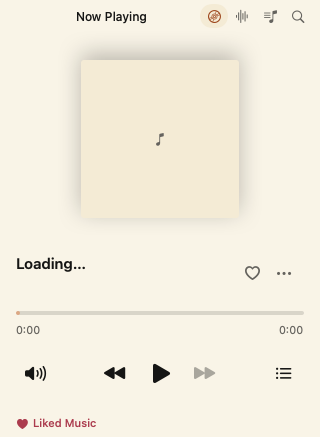
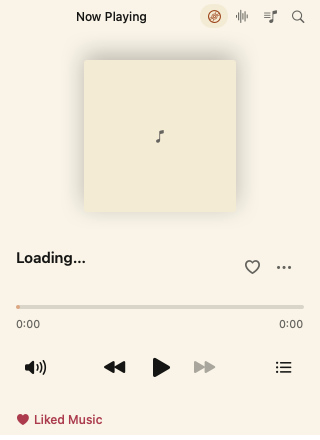
The source line names the output device; Bluetooth asked only from its item; the strip's buttons grouped
Now Playing's bottom line is in the label role on 32 now, and at its
other end names the device the sound goes to when it is not the Mac's
own speakers ("AirPods Pro", muted), so headphones left on are no
mystery. The line shows while either is there.

macOS asked about Bluetooth whenever the "…" menu opened, once the
setting was on: the paired devices were read as the menu appeared. Now
the question comes only from "Connect a Bluetooth Device…", and the menu
reads the paired devices by itself only once CoreBluetooth says the
answer was yes.

In a wide strip the three transport buttons stand together with no gap,
and Like a step apart and muted, as it is not one of them; its tooltip
names Command-L.

diff --git a/Sources/BSide/Player/AudioOutputs.swift b/Sources/BSide/Player/AudioOutputs.swift
@@ -1,5 +1,6 @@
 import Combine
 import CoreAudio
+import CoreBluetooth
 import IOBluetooth
 
 /// Where the Mac's sound can go: the speakers, headphones, a display, an
@@ -10,6 +11,8 @@ struct AudioOutput: Identifiable, Equatable {
     let symbol: String
     /// The system's lasting name for it; a Bluetooth device's has its address.
     let uid: String
+    /// The Mac's own speakers or headphone jack.
+    var isBuiltIn = false
 }
 
 /// A paired Bluetooth speaker or pair of headphones that is not connected.
@@ -34,6 +37,17 @@ final class AudioOutputs: ObservableObject {
     /// is open, never at launch.
     @Published private(set) var paired: [BluetoothOutput] = []
     @Published private(set) var showsBluetooth = Settings.bool(Keys.bluetoothOutputs)
+    /// Snapshots: the device Now Playing says the sound goes to.
+    var sampleElsewhere: AudioOutput?
+
+    /// The device the sound goes to when it is not the Mac's own: named on
+    /// Now Playing, so a pair of headphones left on in another room is not
+    /// a mystery.
+    var elsewhere: AudioOutput? {
+        if let sampleElsewhere { return sampleElsewhere }
+        guard let device = devices.first(where: { $0.id == current }), !device.isBuiltIn else { return nil }
+        return device
+    }
 
     /// The Bluetooth device being connected, to get the sound once it is there.
     private var wanted: (address: String, since: Date)?
@@ -59,18 +73,26 @@ final class AudioOutputs: ObservableObject {
         read()
     }
 
-    /// From the menu, once: macOS asks about Bluetooth, and the paired
-    /// devices are listed from then on.
+    /// macOS has been asked about Bluetooth and said yes. Read without
+    /// asking: the question is asked only from "Connect a Bluetooth
+    /// Device…", never by a menu opening (as it was until 2026-10-03).
+    private static var allowed: Bool { CBManager.authorization == .allowedAlways }
+
+    /// From the menu item, once: macOS asks about Bluetooth, and the
+    /// paired devices are listed from then on.
     func showBluetooth() {
         Settings.defaults.set(true, forKey: Keys.bluetoothOutputs)
         showsBluetooth = true
-        refreshPaired()
+        paired = Self.pairedAudio()
     }
 
-    /// For the menu, as it opens.
+    /// For the menu, as it opens: only once allowed, so no question pops.
     func refreshPaired() {
-        paired = showsBluetooth ? Self.pairedAudio() : []
+        paired = showsBluetooth && Self.allowed ? Self.pairedAudio() : []
     }
+
+    /// The paired devices are listed; else the item that asks.
+    var listsPaired: Bool { showsBluetooth && Self.allowed }
 
     /// Connects the device; the sound goes to it when it has connected.
     func connect(_ device: BluetoothOutput) {
@@ -90,7 +112,8 @@ final class AudioOutputs: ObservableObject {
         devices = Self.ids().compactMap { id in
             guard Self.canBeOutput(id), let name = Self.string(of: id, kAudioObjectPropertyName) else { return nil }
             return AudioOutput(id: id, name: name, symbol: Self.symbol(of: id),
-                               uid: Self.string(of: id, kAudioDevicePropertyDeviceUID) ?? "")
+                               uid: Self.string(of: id, kAudioDevicePropertyDeviceUID) ?? "",
+                               isBuiltIn: Self.value(of: id, kAudioDevicePropertyTransportType) == kAudioDeviceTransportTypeBuiltIn)
         }
         current = Self.value(of: Self.system, kAudioHardwarePropertyDefaultOutputDevice) ?? kAudioObjectUnknown
         guard let wanted else { return }

diff --git a/Sources/BSide/Views/Window/NowPlayingStrip.swift b/Sources/BSide/Views/Window/NowPlayingStrip.swift
@@ -46,18 +46,22 @@ struct NowPlayingStrip: View {
             .contextMenu { trackMenu }
             .accessibilityLabel("Now Playing: \(line)" + (player.sourceLabel.map { ", from \($0.name)" } ?? ""))
 
-            // As tall as the artwork, 4 inside the panel, like it.
-            if wide {
-                TransportButton(symbol: "backward.fill", label: "Previous", target: Theme.Size.artworkStrip) { player.previous() }
-                    .disabled(!player.hasTrack)
+            // As tall as the artwork, 4 inside the panel, like it. The
+            // transport buttons stand together; Like, which is not one of
+            // them, a step apart and muted, as on Now Playing.
+            HStack(spacing: 0) {
+                if wide {
+                    TransportButton(symbol: "backward.fill", label: "Previous", target: Theme.Size.artworkStrip) { player.previous() }
+                        .disabled(!player.hasTrack)
+                }
+                TransportButton(symbol: player.state.isPlaying ? "pause.fill" : "play.fill",
+                                label: player.state.isPlaying ? "Pause" : "Play",
+                                glyph: Theme.Size.stripPlayGlyph, target: Theme.Size.artworkStrip) {
+                    player.togglePlayPause()
+                }
+                TransportButton(symbol: "forward.fill", label: "Next", target: Theme.Size.artworkStrip) { player.next() }
+                    .disabled(!player.state.hasNext)
             }
-            TransportButton(symbol: player.state.isPlaying ? "pause.fill" : "play.fill",
-                            label: player.state.isPlaying ? "Pause" : "Play",
-                            glyph: Theme.Size.stripPlayGlyph, target: Theme.Size.artworkStrip) {
-                player.togglePlayPause()
-            }
-            TransportButton(symbol: "forward.fill", label: "Next", target: Theme.Size.artworkStrip) { player.next() }
-                .disabled(!player.state.hasNext)
             if wide, !player.state.isAd {
                 TransportButton(symbol: player.state.isLiked ? "heart.fill" : "heart",
                                 label: player.state.isLiked ? "Remove Like" : "Like", target: Theme.Size.artworkStrip,
@@ -65,6 +69,8 @@ struct NowPlayingStrip: View {
                     player.toggleLike()
                 }
                 .disabled(!player.hasTrack)
+                .padding(.leading, Theme.Space.xs)
+                .help("Like (⌘L)")
             }
         }
         .onGeometryChange(for: CGFloat.self) { $0.size.width } action: { width = $0 }
@@ -106,6 +112,8 @@ struct NowPlayingStrip: View {
 /// track in the strip, and along the bottom of Now Playing.
 struct SourceLine: View {
     let label: SourceLabel
+    /// The caption under the track in the strip; the label on its own line.
+    var font: Font = Theme.Text.caption
     @Environment(\.colorScheme) private var colorScheme
 
     var body: some View {
@@ -113,7 +121,7 @@ struct SourceLine: View {
             Image(systemName: label.symbol)
             Text(label.name)
         }
-        .font(Theme.Text.caption)
+        .font(font)
         .fontWeight(.medium)
         .foregroundStyle(colour)
         .lineLimit(1)

diff --git a/Sources/BSide/Views/NowPlaying/NowPlayingPage.swift b/Sources/BSide/Views/NowPlaying/NowPlayingPage.swift
@@ -77,20 +77,30 @@ struct NowPlayingPage: View {
                 .padding(.horizontal, Theme.Space.m)
                 .padding(.bottom, Theme.Space.m) // as far from the bottom as from the sides
             // Along the bottom, what it plays from: the strip's line, on a
-            // bar of its own, for the page that has no strip.
-            if let label = player.sourceLabel {
-                HStack {
-                    SourceLine(label: label)
-                        .id(label)
-                        .transition(.opacity)
-                    Spacer()
+            // bar of its own, for the page that has no strip. At the other
+            // end, where the sound goes when not to the Mac's own speakers.
+            if player.sourceLabel != nil || outputs.elsewhere != nil {
+                HStack(spacing: Theme.Space.xs) {
+                    if let label = player.sourceLabel {
+                        SourceLine(label: label, font: Theme.Text.label)
+                            .id(label)
+                            .transition(.opacity)
+                            .help("Playing from \(label.name)")
+                    }
+                    Spacer(minLength: 0)
+                    if let device = outputs.elsewhere {
+                        Label(device.name, systemImage: device.symbol)
+                            .font(Theme.Text.label)
+                            .foregroundStyle(Theme.Colors.textMuted)
+                            .lineLimit(1)
+                            .help("Playing on \(device.name)")
+                    }
                 }
                 .padding(.horizontal, Theme.Space.m)
                 .frame(height: Theme.Size.sourceBar)
                 .frame(maxWidth: .infinity)
                 .barGlass(joined: .bottom)
                 .animation(.easeInOut(duration: Theme.Motion.page), value: player.sourceLabel)
-                .help("Playing from \(label.name)")
             }
         }
     }
@@ -344,15 +354,16 @@ struct NowPlayingPage: View {
             }
             .onAppear { outputs.refreshPaired() }
             Divider()
-            if outputs.showsBluetooth {
+            if outputs.listsPaired {
                 ForEach(outputs.paired) { device in
                     Button { outputs.connect(device) } label: {
                         Label("Connect \(device.name)", systemImage: "headphones")
                     }
                 }
             } else {
+                // The one place macOS asks about Bluetooth.
                 Button { outputs.showBluetooth() } label: {
-                    Label("Show Bluetooth Devices", systemImage: "dot.radiowaves.left.and.right")
+                    Label("Connect a Bluetooth Device…", systemImage: "dot.radiowaves.left.and.right")
                 }
             }
         } label: {

diff --git a/Sources/BSide/Design/Snapshots.swift b/Sources/BSide/Design/Snapshots.swift
@@ -213,9 +213,11 @@ enum Snapshots {
         await renderWidgets(into: folder)
         await renderNewVibe(into: folder)
         await renderSettings(into: folder)
+        AudioOutputs.shared.sampleElsewhere = AudioOutput(id: 0, name: "AirPods Pro", symbol: "headphones", uid: "")
         await renderPage(.nowPlaying, player: .fixture(state: track, source: .mood(Mood.liked.id)),
                          name: "nowplaying-reduce-transparency", appearance: .aqua, into: folder,
                          reduceTransparency: true)
+        AudioOutputs.shared.sampleElsewhere = nil
         await renderPage(.nowPlaying, player: .fixture(state: track, source: .mood(Mood.liked.id)),
                          name: "nowplaying-hover", appearance: .aqua, into: folder,
                          reduceTransparency: true, artworkHover: true)

diff --git a/Sources/BSide/Design/Theme.swift b/Sources/BSide/Design/Theme.swift
@@ -88,8 +88,9 @@ enum Theme {
         /// The Playlists page's bar under the title bar: one line, the
         /// compact filled button with 6 above and below.
         static var pageBar: CGFloat { (36) * scale }
-        /// The line along the bottom of Now Playing with the source.
-        static var sourceBar: CGFloat { (28) * scale }
+        /// The line along the bottom of Now Playing with the source and the
+        /// output device.
+        static var sourceBar: CGFloat { (32) * scale }
         /// Two columns inside the window padding, with one gutter.
         /// A tile's least width: two in the window at its least size. In a
         /// wider window the tiles grow, then a third column comes.

diff --git a/design/SCREENS.md b/design/SCREENS.md
@@ -36,10 +36,13 @@ make them 15% and 30% bigger, and the window's least size with them.
   pair in balance).
 - Like: a heart, always in view; orange and filled once liked. Not on the
   artwork's hover, which keeps Lyrics and Repeat. Hidden during an ad.
-- Along the bottom of the page, a compact glass line (28) with what plays
-  from where, as the strip has it under the track on the other pages: a
-  vibe's name in its colour, a playlist, an album, an artist or a radio in
-  the accent (since 2026-10-03). Only while something plays from somewhere
+- Along the bottom of the page, a glass line (32) with what plays from
+  where, in the label role, as the strip has it under the track on the
+  other pages: a vibe's name in its colour, a playlist, an album, an artist
+  or a radio in the accent (since 2026-10-03). At its other end, muted,
+  the device the sound goes to when it is not the Mac's own speakers
+  ("AirPods Pro"), so headphones left on are no mystery. The line shows
+  while either is there
 - Up Next: a list button in a glass circle at the end of the transport row,
   mirroring the speaker at its start; both open something. It
   puts what plays next in the artwork's place (as Lyrics do; one of the two
@@ -71,10 +74,11 @@ make them 15% and 30% bigger, and the window's least size with them.
   and the words on it). Small artwork in rows and the strip still fills
 - Sound Output, in the "…" menu: the Mac's outputs with the one in use
   checked; choosing one changes the system's output, as the Sound menu
-  does. Under them "Show Bluetooth Devices", which makes macOS ask about
-  Bluetooth once; after that, the paired speakers and headphones that are
-  not connected, as "Connect <name>": the device is connected and gets
-  the sound
+  does. Under them "Connect a Bluetooth Device…", the one place that makes
+  macOS ask about Bluetooth (since 2026-10-03; before, the menu opening
+  asked, once the setting was on); after that, the paired speakers and
+  headphones that are not connected, as "Connect <name>": the device is
+  connected and gets the sound
 - What we removed or deferred: shuffle toggle, dragging tracks in Up Next
 - At launch: the track that played last, paused where it stopped (as Music
   and Spotify do); Play goes on from there, in the same playlist or vibe.
@@ -228,7 +232,9 @@ a `Skeleton` list while loading.
 
 Artwork 24, "Title — Artist" in the caption role, Pause or Play, Next. In a
 strip 400 or wider (the window dragged out), Previous comes before them and
-Like after (since 2026-10-03). The line opens Now Playing. When something
+Like after (since 2026-10-03): the three transport buttons stand together
+with no gap, Like 16 apart and muted, as it is not one of them. Command-L
+likes from anywhere. The line opens Now Playing. When something
 failed, the panel shows the message instead.
 
 Under the track, what it plays from: a vibe's name in the vibe's colour; a

diff --git a/PRIVACY.md b/PRIVACY.md
@@ -47,8 +47,8 @@ app, `~/Library/Application Support/B-Side` and
 
 - **Notifications**, only if you turn on "Notify when a track starts".
 - **Login item**, only if you turn on "Open at login".
-- **Bluetooth**, only if you choose "Show Bluetooth Devices" under Sound
-  Output. B-Side then reads the names of your paired speakers and
+- **Bluetooth**, only if you choose "Connect a Bluetooth Device…" under
+  Sound Output. B-Side then reads the names of your paired speakers and
   headphones, to list them and to connect the one you pick. Nothing about
   them leaves your Mac.
 
